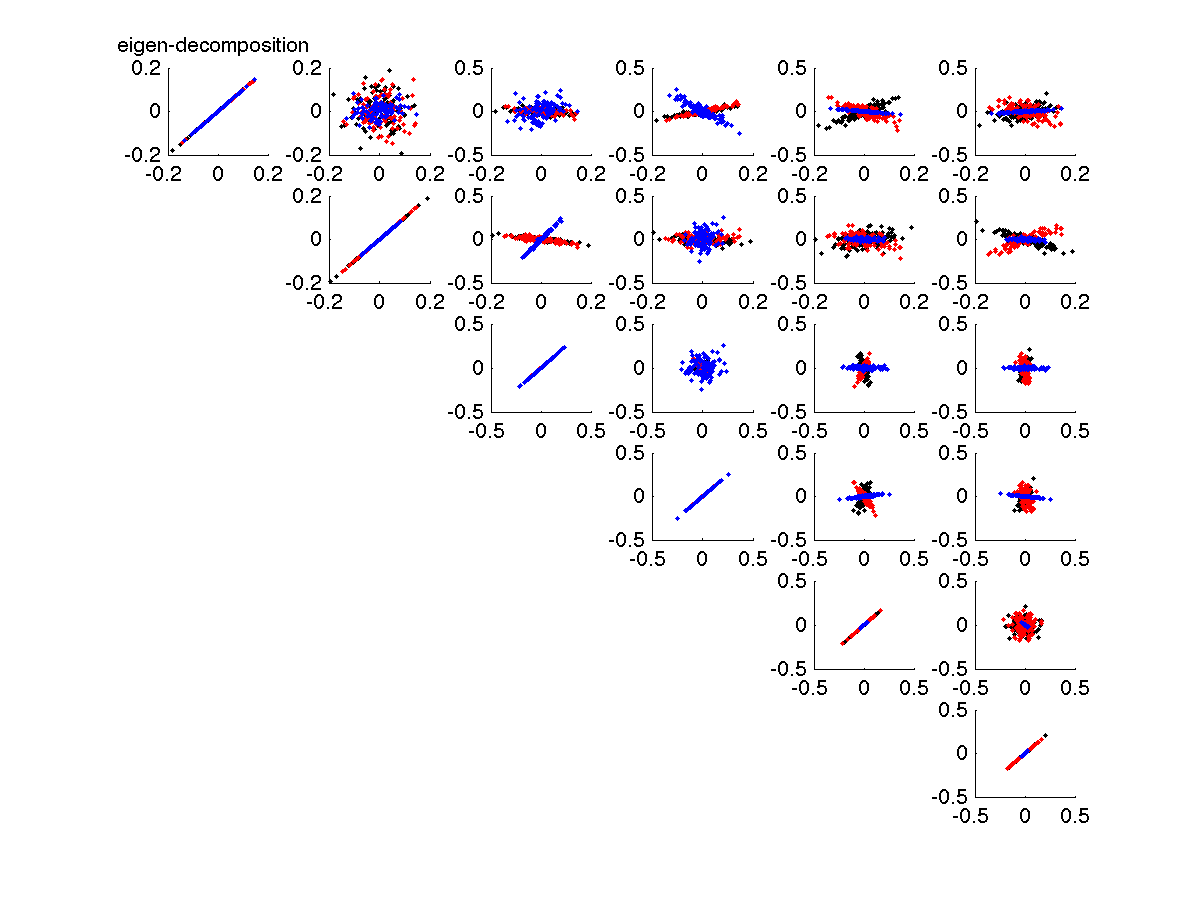
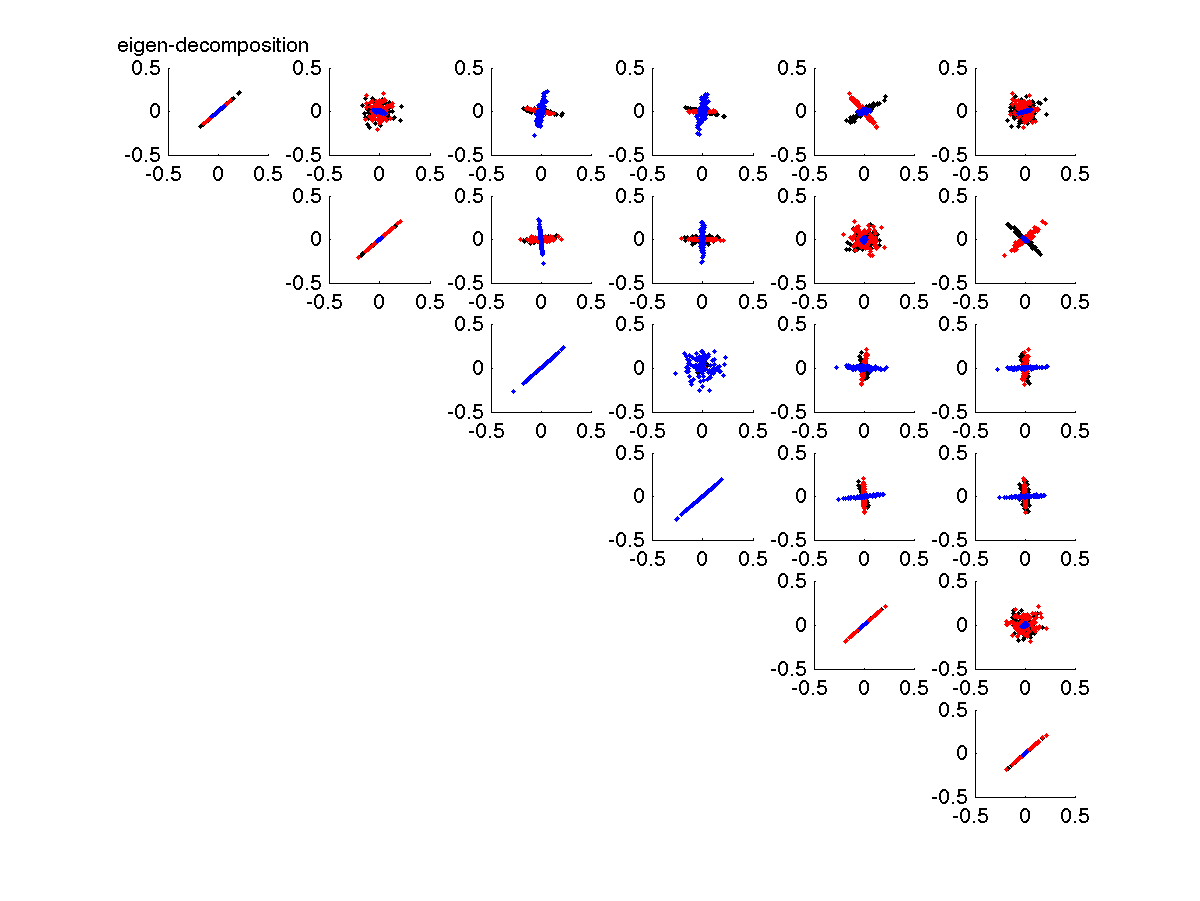
spectral subspace clustering

diff --git a/code/SimSpectralSubspaceCluster.m b/code/SimSpectralSubspaceCluster.m
@@ -1,0 +1,27 @@
+%% set simulation parameters
+clc; clear all;
+n=100;     % number of samples
+r=2;        % rank of *each* subspace
+k=2;        % number of subspaces
+c=0.5;        % mean shift of subspaces
+sig=0.05;
+kr=k*r;     % sum of ranks
+d=4;   % ambient dimension
+if d<kr, display('dim is too small'), break, end;
+
+% generate data
+U={};
+UU=orth(randn(d,r+k-1)); % Only works for r=2
+for i=1:k
+    U{i}=UU(:,i:i+r-1);
+end
+
+data=[];
+for i=1:k
+    Y{i}=U{i}*(c*rand(r,1)*ones(1,n)+sig*randn(r,n));
+    data=[data Y{i}];
+end
+
+A=data'*data;
+subplot(121), imagesc(data), colorbar
+subplot(122), imagesc(A), colorbar

diff --git a/code/SpectralSubspaceClustering.m b/code/SpectralSubspaceClustering.m
@@ -1,0 +1,7 @@
+function [foo bar] = SpectralSubspaceClustering(A,d)
+
+
+[U D V] = svds(A,d);
+
+X=[U; D*V];
+% subspace cluster
